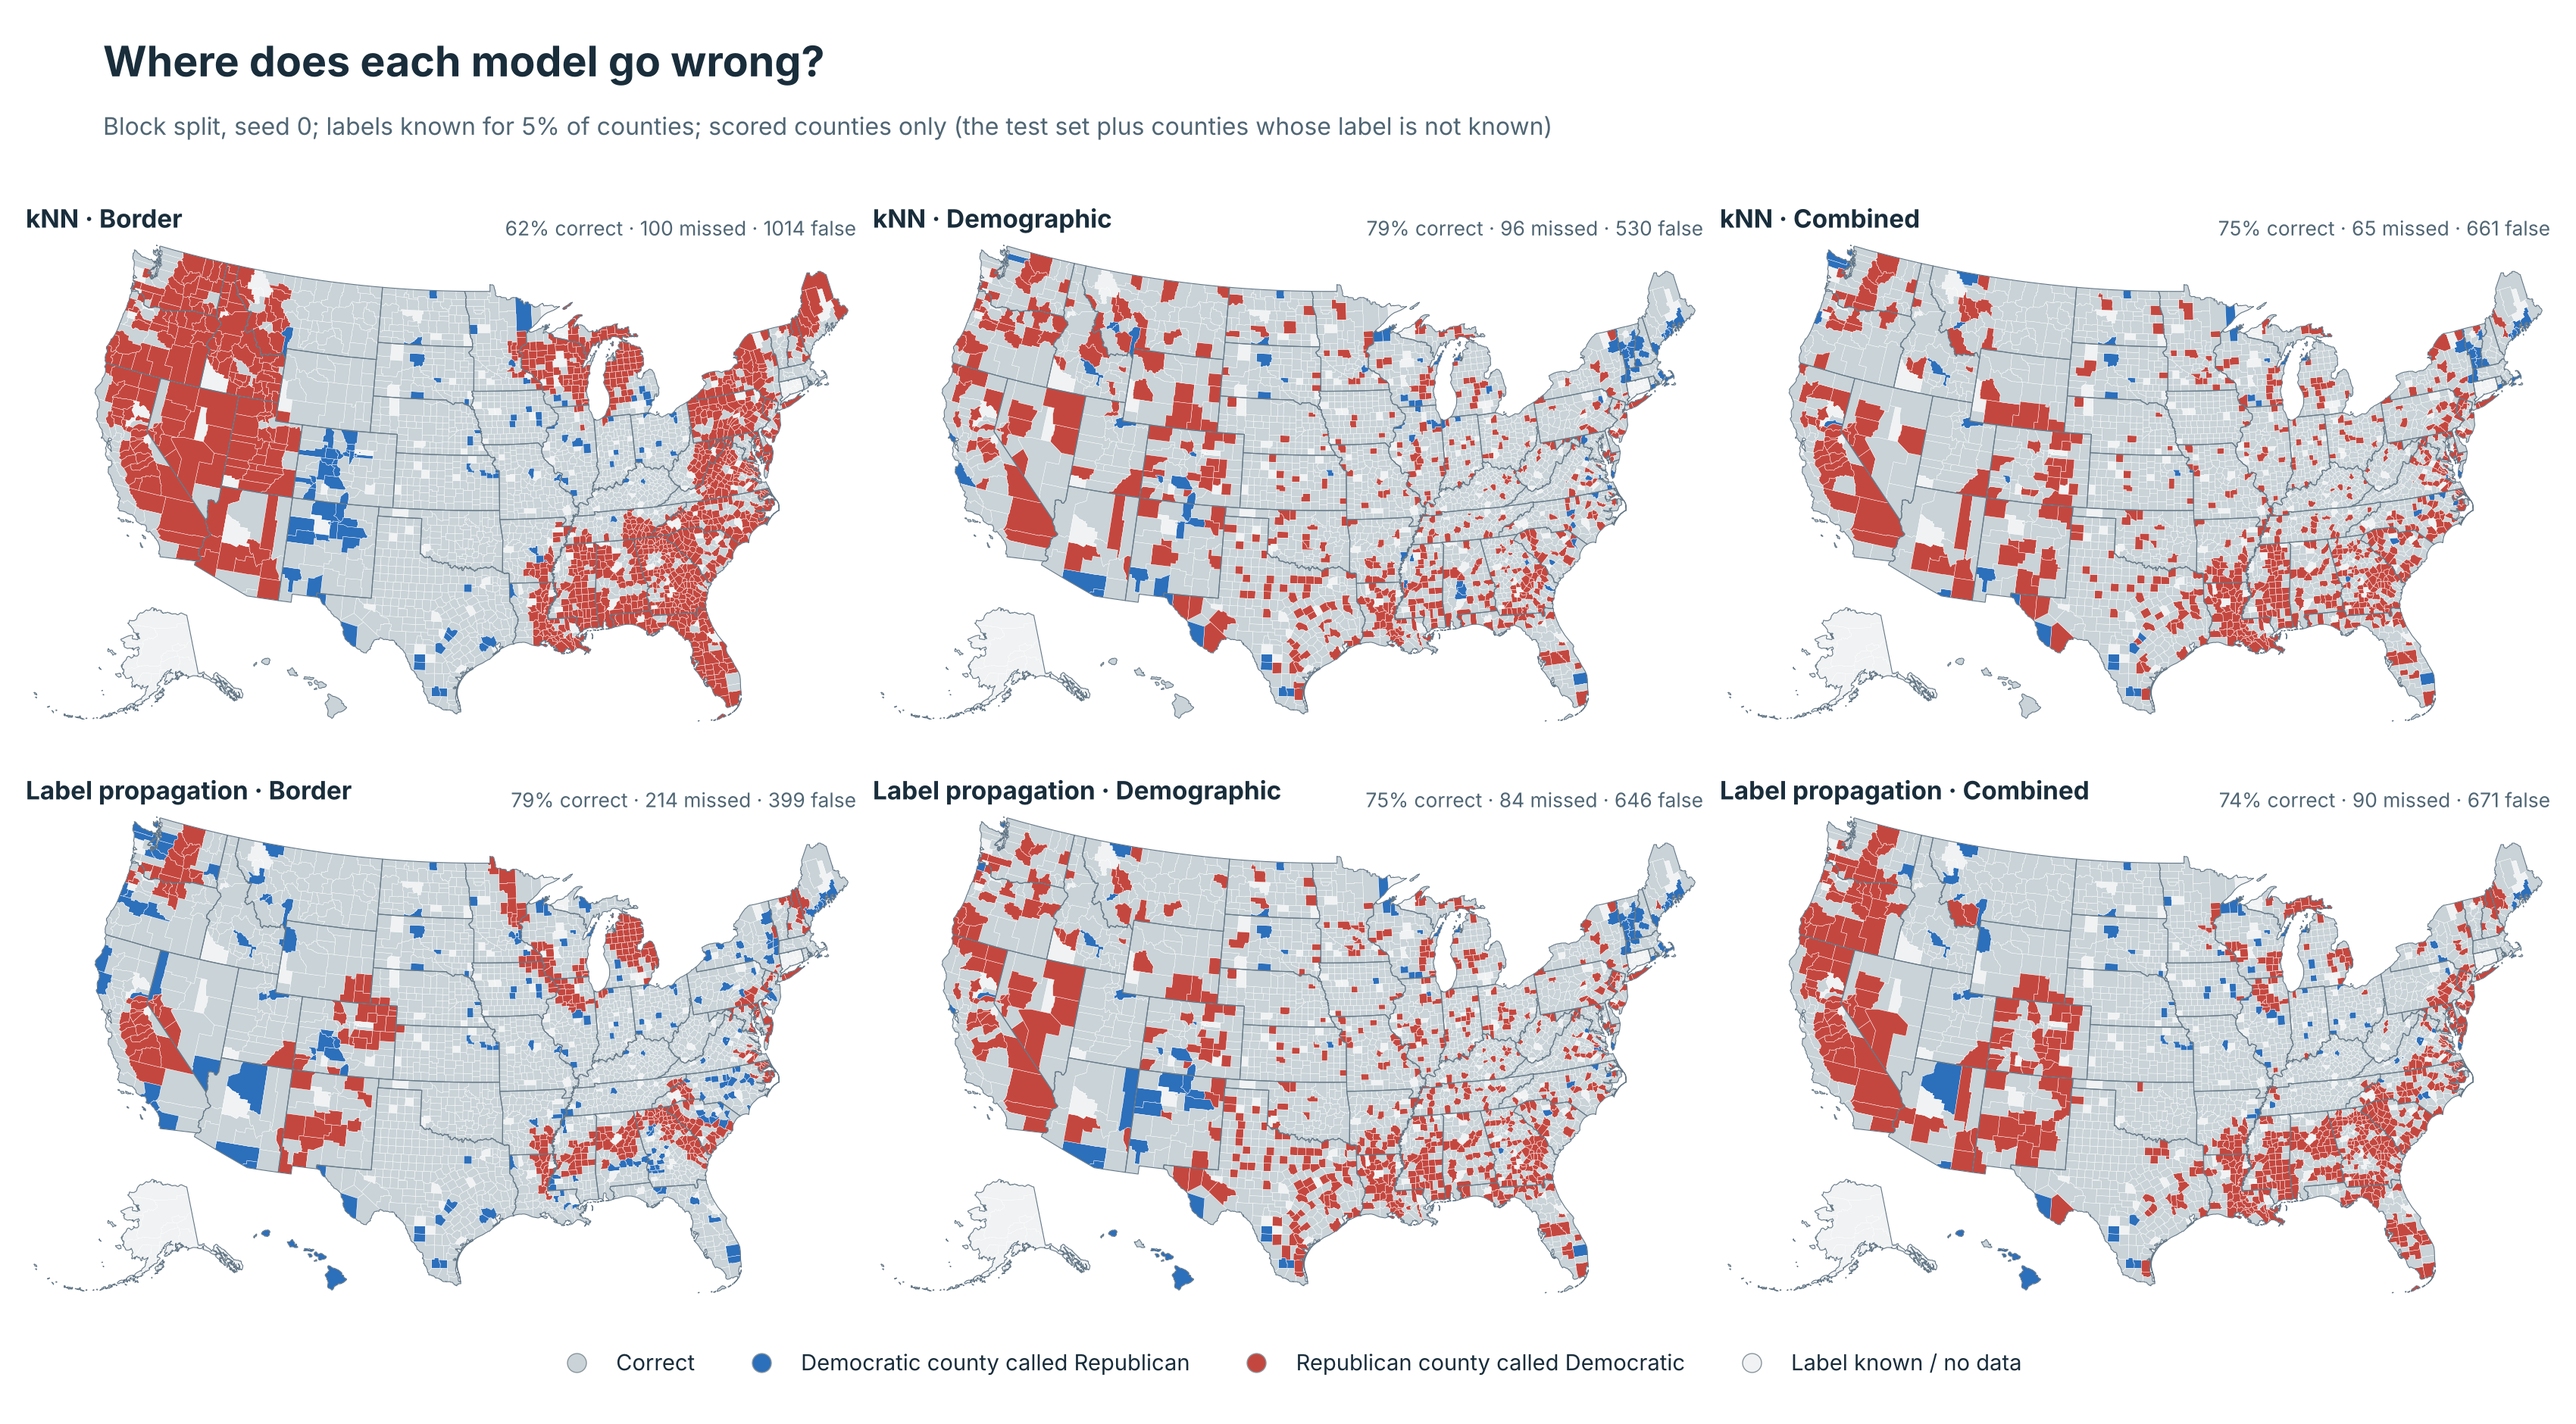
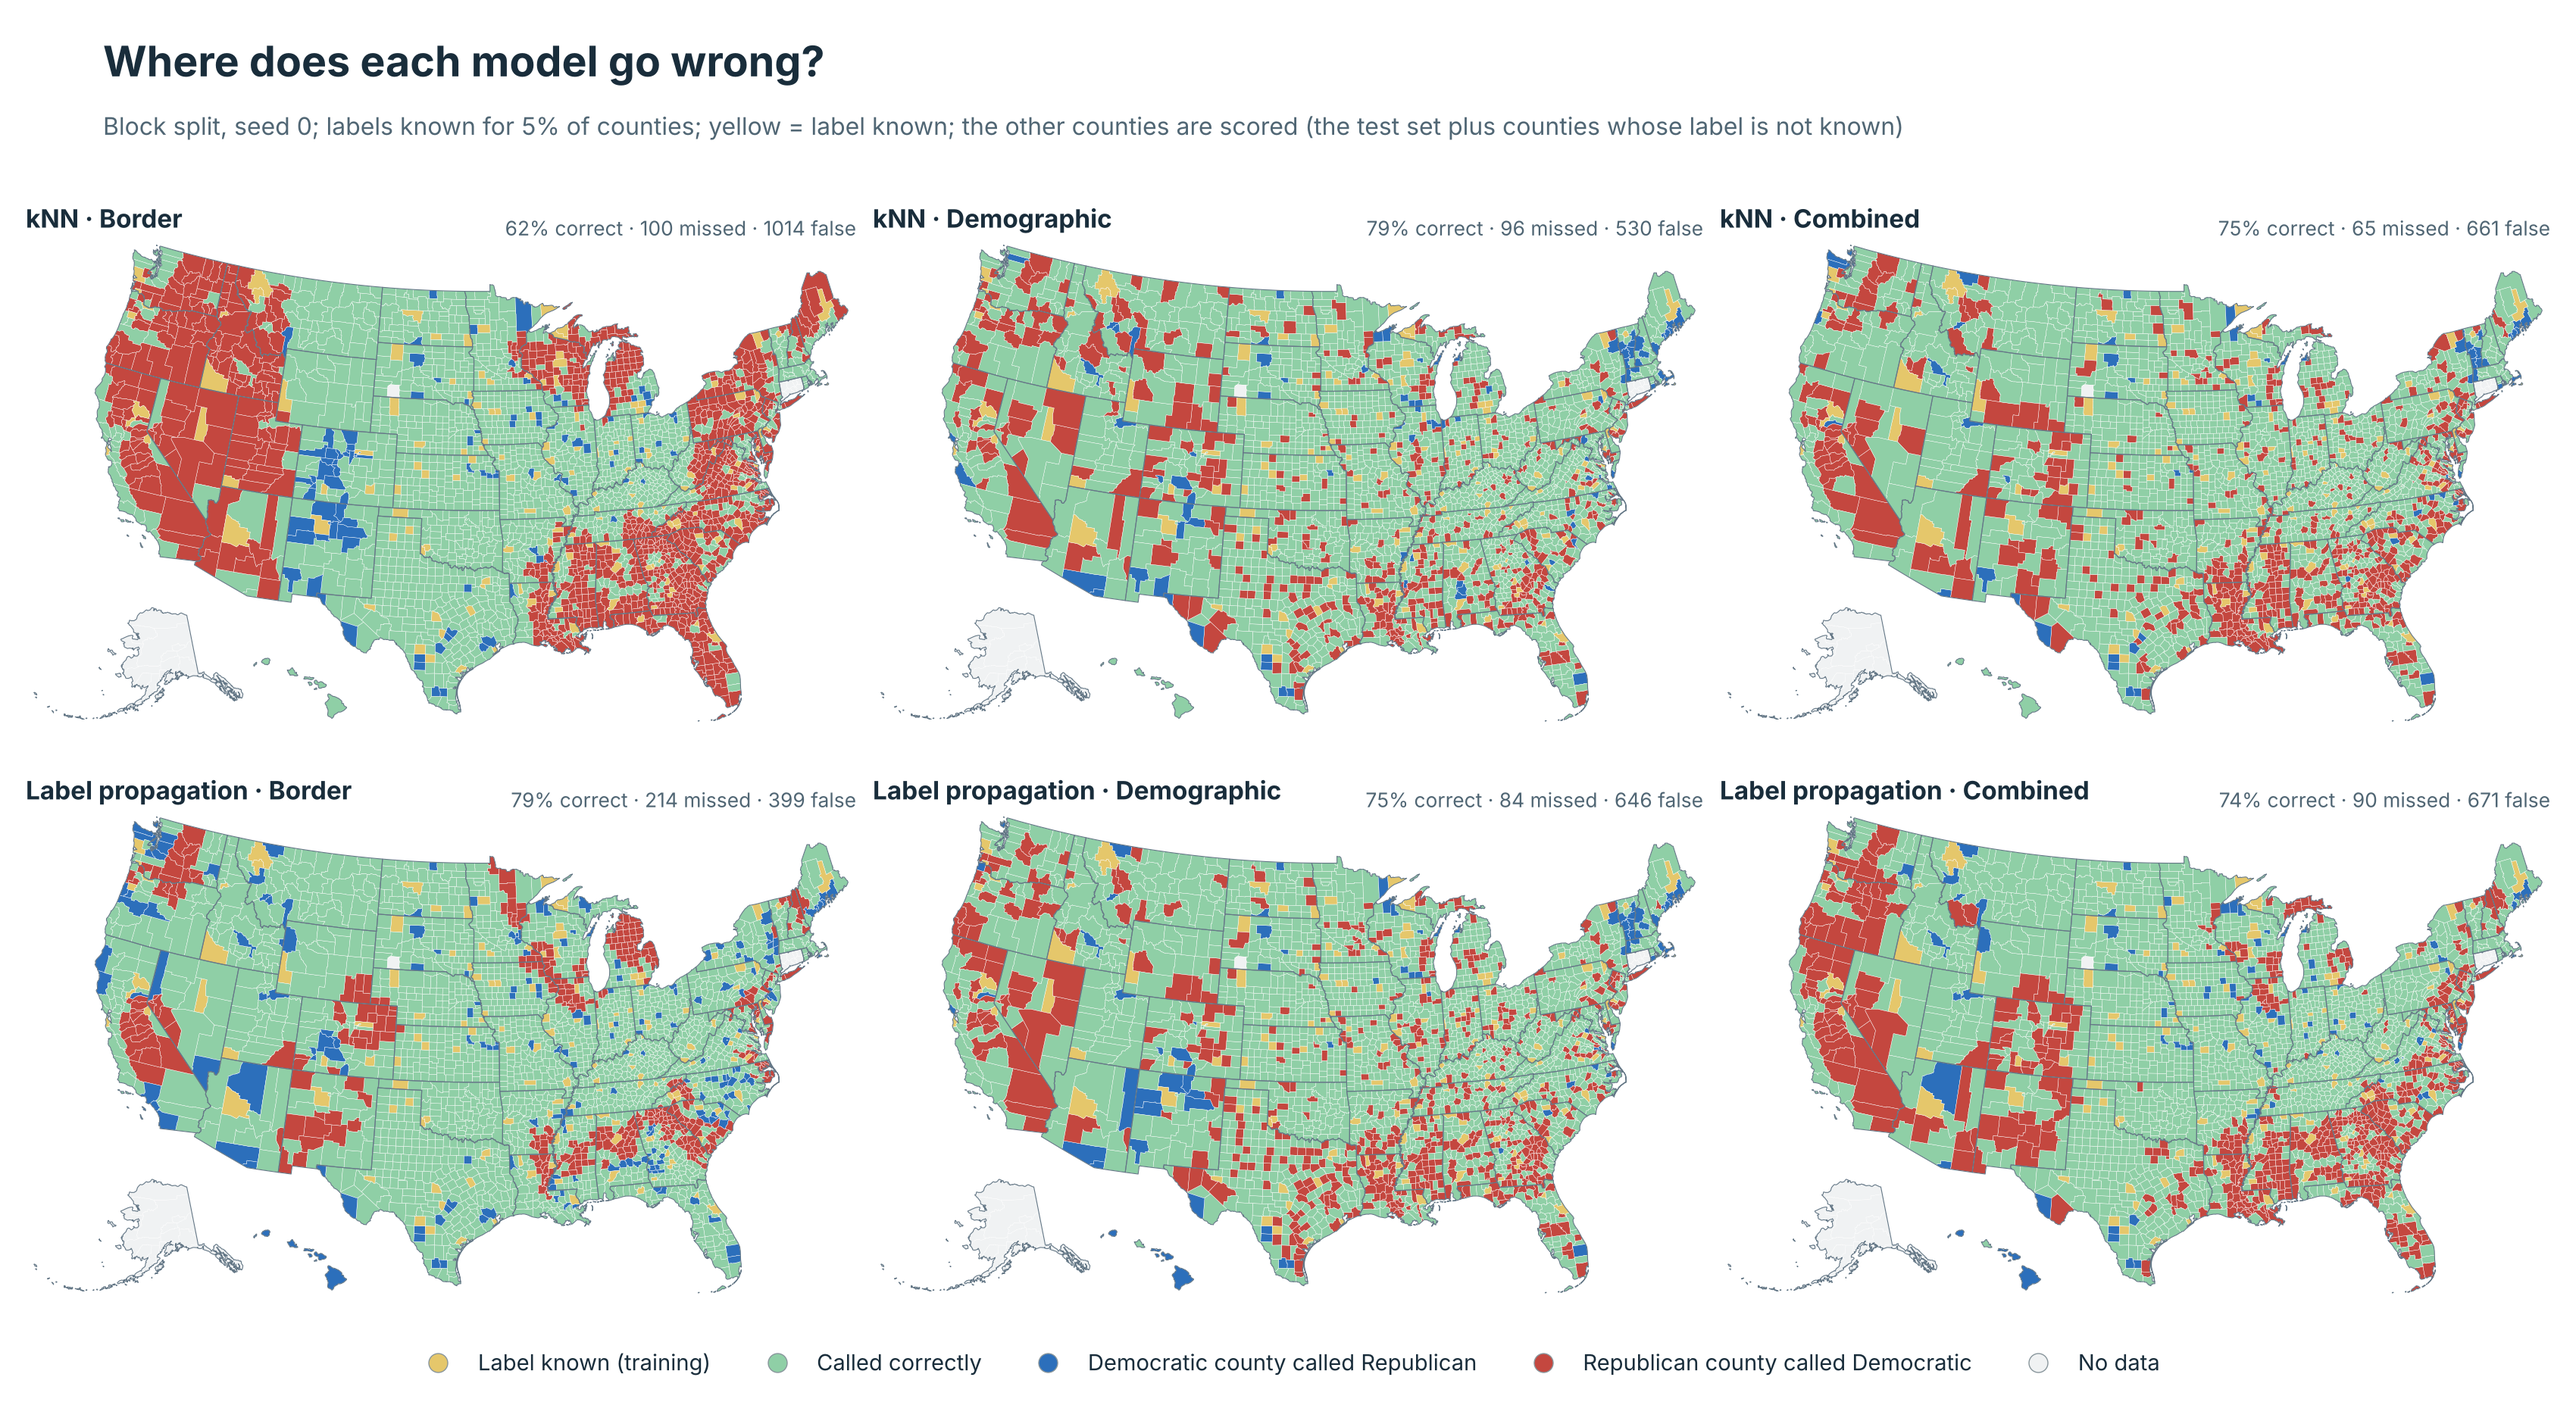
Error maps: distinct colours for known counties and correct calls
Claude-Session: https://claude.ai/code/session_015Ws27n5jEKFEpjFhRPzqSw

diff --git a/src/visualization/maps.py b/src/visualization/maps.py
@@ -106,7 +106,7 @@ def _legend(fig, entries, y=0.02, ncol=None):
 
 def errors_grid(canvas, repro, comp, out, split="stratified", seed=0, frac="max"):
     """Right and wrong calls on the test counties for every model and graph."""
-    cats = {"ok": ("Correct", st.NEUTRAL), "miss": ("Democratic county called Republican", st.DEM),
+    cats = {"ok": ("Called correctly", st.CORRECT), "miss": ("Democratic county called Republican", st.DEM),
             "false": ("Republican county called Democratic", st.REP)}
     fig, axes = plt.subplots(2, 3, figsize=(17, 9.4))
     size = 5 if canvas.atlas is None else None
@@ -116,13 +116,15 @@ def errors_grid(canvas, repro, comp, out, split="stratified", seed=0, frac="max"
             row = pick_run(comp, graph, model, split, seed, frac)
             res = repro.run(row)
             kind = np.where(res.actual == res.pred, "ok", np.where(res.actual == 1, "miss", "false"))
-            canvas.draw(ax, {g: cats[k][1] for g, k in zip(res.index, kind)}, size=size)
+            colors = {g: st.KNOWN for g in res.attrs["known"]}
+            colors.update({g: cats[k][1] for g, k in zip(res.index, kind)})
+            canvas.draw(ax, colors, size=size)
             ax.set_title(f"{st.MODEL_LABEL[model]} · {st.GRAPH_LABEL[graph].replace(' graph', '')}", loc="left", fontsize=12)
             ax.text(1.0, 1.0, f"{(kind == 'ok').mean():.0%} correct · {(kind == 'miss').sum()} missed · {(kind == 'false').sum()} false",
                     transform=ax.transAxes, ha="right", va="bottom", fontsize=9.5, color=st.MUTED)
     fig.subplots_adjust(top=0.84, bottom=0.08, left=0.01, right=0.99, wspace=0.02, hspace=0.12)
-    _legend(fig, [(l, c) for l, c in cats.values()] + [("Label known / no data", st.BLANK)])
+    _legend(fig, [("Label known (training)", st.KNOWN)] + [(l, c) for l, c in cats.values()] + [("No data", st.BLANK)])
     st.headline(fig, "Where does each model go wrong?",
-                f"{st.SPLIT_LABEL[split]}, seed {seed}; labels known for {row.known_share:.0%} of counties; scored counties only (the test set plus counties whose label is not known)")
+                f"{st.SPLIT_LABEL[split]}, seed {seed}; labels known for {row.known_share:.0%} of counties; yellow = label known; the other counties are scored (the test set plus counties whose label is not known)")
     fig.savefig(out, dpi=200)
     plt.close(fig)

diff --git a/src/visualization/predictions.py b/src/visualization/predictions.py
@@ -38,7 +38,9 @@ class Reproducer:
         pred = (proba > threshold).astype(int)
         saved = row.balanced_accuracy
         assert abs(balanced_accuracy(actual, pred) - saved) < 1e-6, "reproduced run does not match the saved metrics"
-        return pd.DataFrame({"actual": actual, "proba": proba, "pred": pred}, index=np.asarray(geoids)[test])
+        out = pd.DataFrame({"actual": actual, "proba": proba, "pred": pred}, index=np.asarray(geoids)[test])
+        out.attrs["known"] = list(np.asarray(geoids)[known])  # counties whose labels were known
+        return out
 
 
 def pick_run(comp, graph, model, split="stratified", seed=0, frac="max"):

diff --git a/src/visualization/style.py b/src/visualization/style.py
@@ -20,6 +20,8 @@ DEM, REP = "#2c6fbb", "#c4473f"
 PALE_DEM, PALE_REP = "#bdd2ea", "#ecc3bf"
 NEUTRAL = "#c9d3d8"
 BLANK = "#f0f2f3"
+CORRECT = "#8fcfa6"   # scored county called correctly
+KNOWN = "#e5c76b"     # county whose label is known (training)
 
 
 def apply_style():
